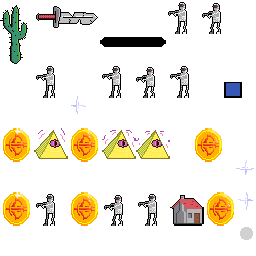
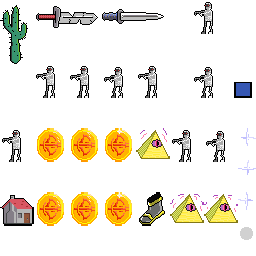
Add files via upload

diff --git a/kandy/scripts/c3runtime.js b/kandy/scripts/c3runtime.js
@@ -3133,9 +3133,11 @@ const map=new WeakMap;self.IBulletBehaviorInstance=class IBulletBehaviorInstance
 		C3.Plugins.Particles,
 		C3.Plugins.System.Cnds.CompareBoolVar,
 		C3.Behaviors.Platform.Acts.SimulateControl,
+		C3.Behaviors.Platform.Acts.SetMaxSpeed,
 		C3.Plugins.Sprite.Cnds.CompareInstanceVar,
 		C3.Behaviors.solid.Acts.SetEnabled,
 		C3.Plugins.System.Acts.AddVar,
+		C3.Plugins.System.Exps.random,
 		C3.Plugins.Sprite.Acts.Destroy,
 		C3.Plugins.System.Acts.CreateObject,
 		C3.Plugins.Sprite.Exps.X,
@@ -3164,9 +3166,8 @@ const map=new WeakMap;self.IBulletBehaviorInstance=class IBulletBehaviorInstance
 		C3.Plugins.System.Acts.RestartLayout,
 		C3.Plugins.System.Cnds.OnLayoutStart,
 		C3.Plugins.Button.Cnds.OnClicked,
-		C3.Plugins.Touch.Cnds.OnDoubleTapGesture,
+		C3.Plugins.Touch.Cnds.OnDoubleTapGestureObject,
 		C3.Plugins.Text.Acts.Destroy,
-		C3.Plugins.Sprite.Acts.SetAnim,
 		C3.Plugins.Text.Acts.SetVisible,
 		C3.Behaviors.Sin.Acts.SetEnabled
 		];
@@ -3212,13 +3213,17 @@ const map=new WeakMap;self.IBulletBehaviorInstance=class IBulletBehaviorInstance
 		{Sprite5: 0},
 		{Sprite7: 0},
 		{FonteDeSprites: 0},
-		{swd_shadow: 0},
 		{Texto3: 0},
-		{Partículas: 0},
+		{part_shopsmoke: 0},
+		{spr_adaga: 0},
+		{dagger_price: 0},
+		{spr_ironboots: 0},
+		{ironboots_price: 0},
 		{playervivo: 0},
 		{enemycol: 0},
 		{goldcoins: 0},
-		{playeratk: 0}
+		{playeratk: 0},
+		{movespeed: 0}
 	];
 }
 
@@ -3320,8 +3325,15 @@ const map=new WeakMap;self.IBulletBehaviorInstance=class IBulletBehaviorInstance
 	}
 
 	self.C3_ExpressionFuncs = [
+		p => {
+			const v0 = p._GetNode(0).GetVar();
+			return () => v0.GetValue();
+		},
 		() => 0,
-		() => 30,
+		p => {
+			const f0 = p._GetNode(0).GetBoundMethod();
+			return () => Math.round(f0(15, 30));
+		},
 		p => {
 			const n0 = p._GetNode(0);
 			return () => n0.ExpObject();
@@ -3329,10 +3341,6 @@ const map=new WeakMap;self.IBulletBehaviorInstance=class IBulletBehaviorInstance
 		p => {
 			const n0 = p._GetNode(0);
 			return () => n0.ExpInstVar();
-		},
-		p => {
-			const v0 = p._GetNode(0).GetVar();
-			return () => v0.GetValue();
 		},
 		() => 1,
 		() => 0.3,
@@ -3348,7 +3356,11 @@ const map=new WeakMap;self.IBulletBehaviorInstance=class IBulletBehaviorInstance
 		},
 		() => 3,
 		() => 100,
-		() => ""
+		() => 800,
+		() => 10,
+		() => 500,
+		() => 80,
+		() => 70
 	];
 }
 
